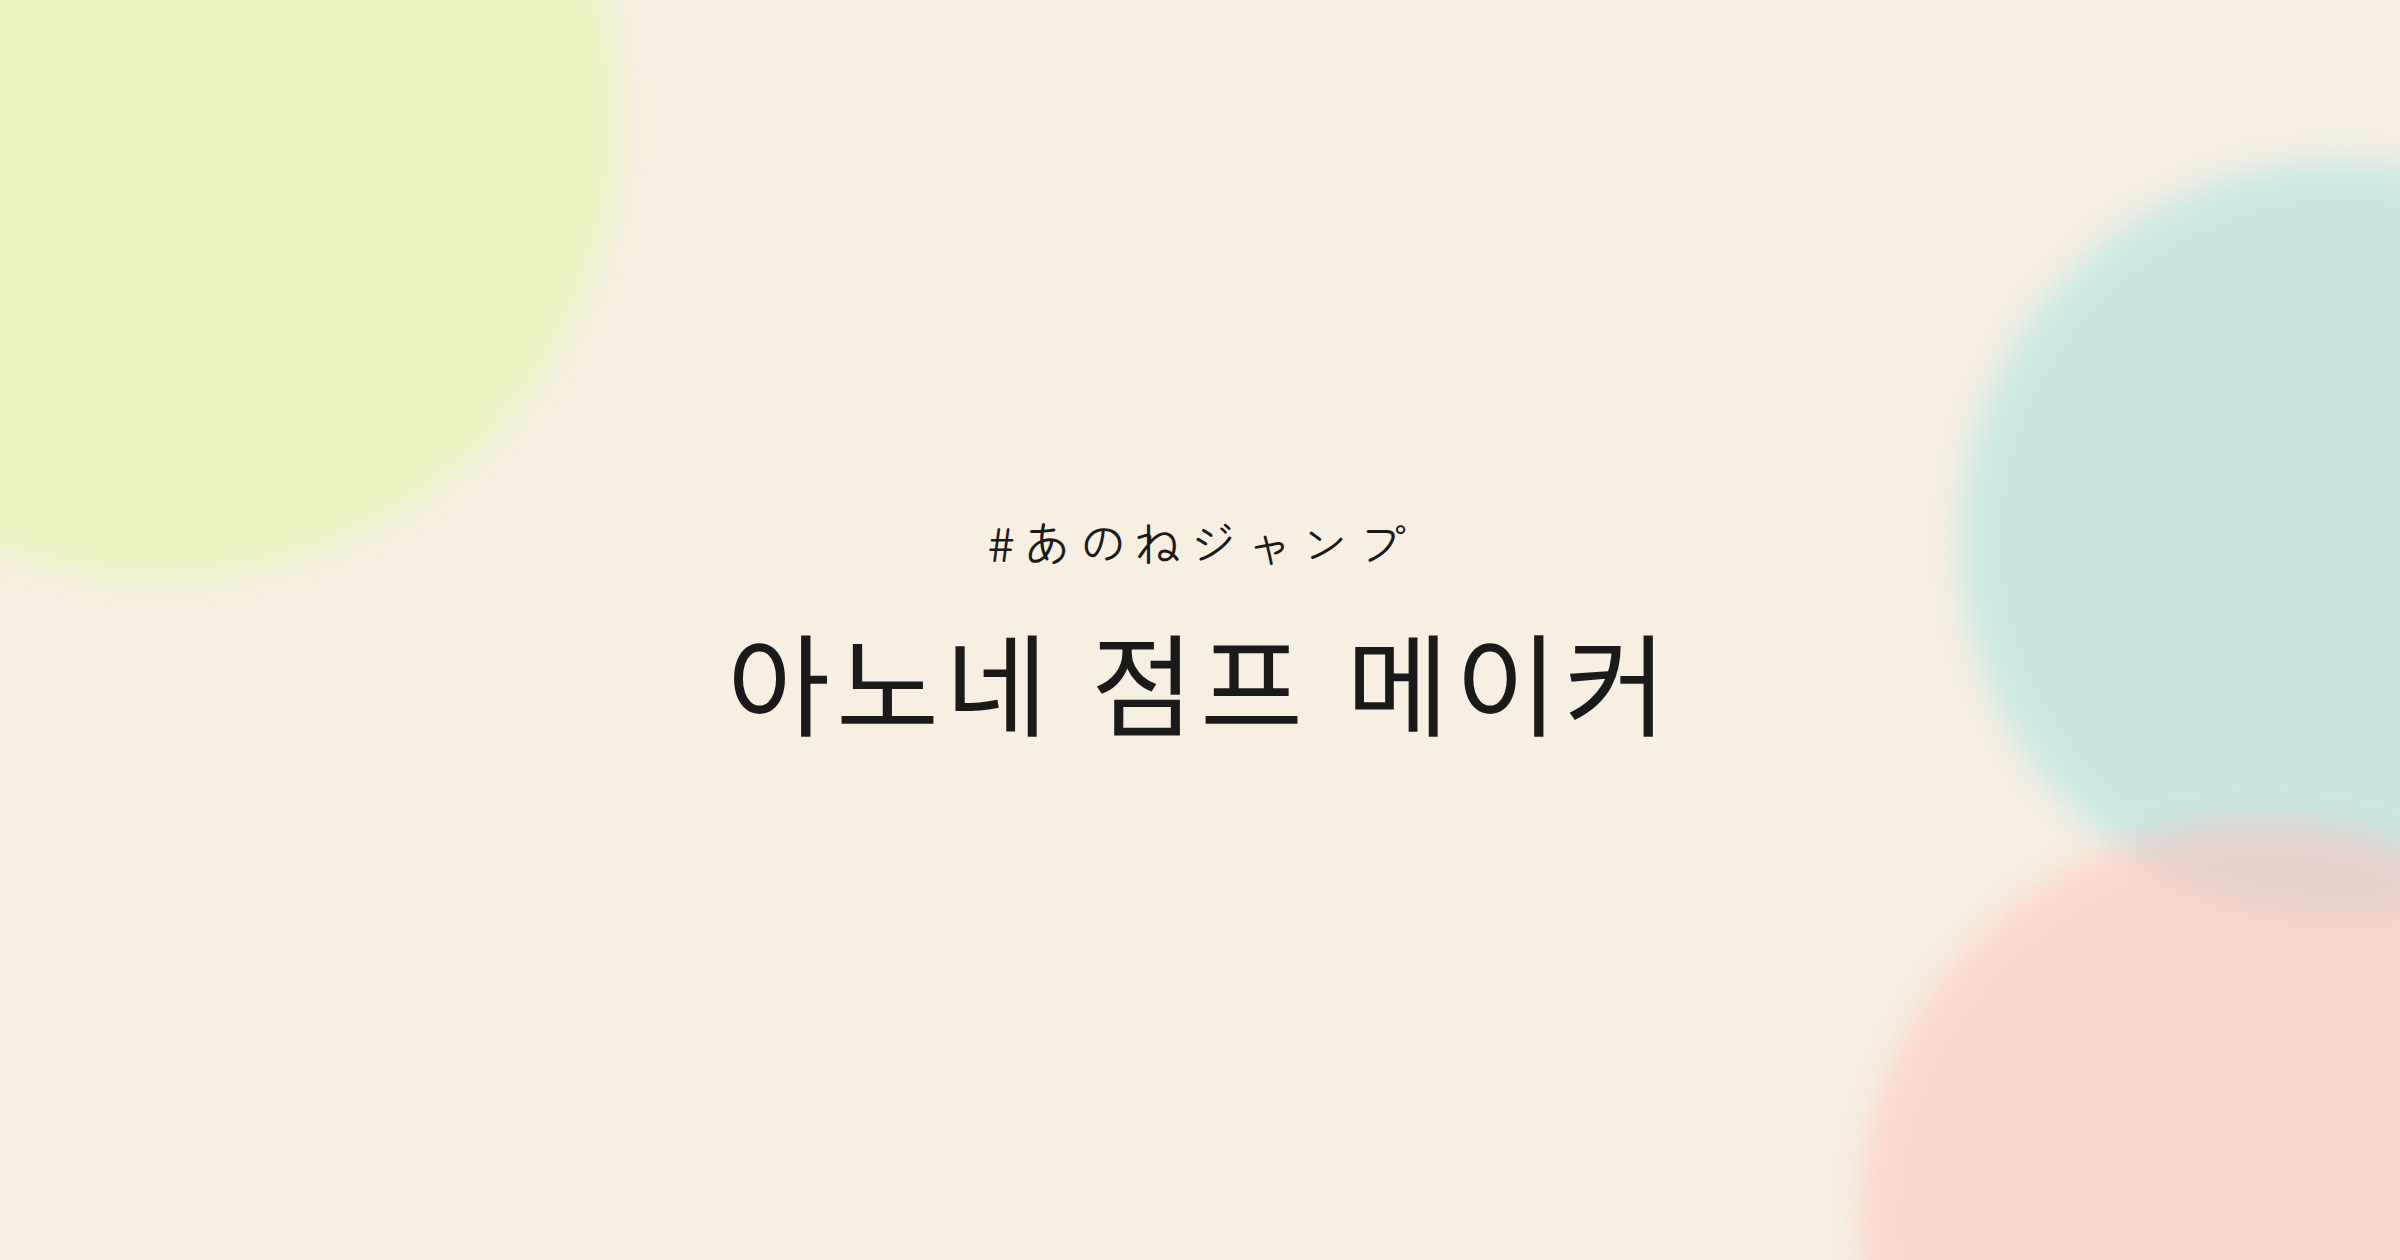
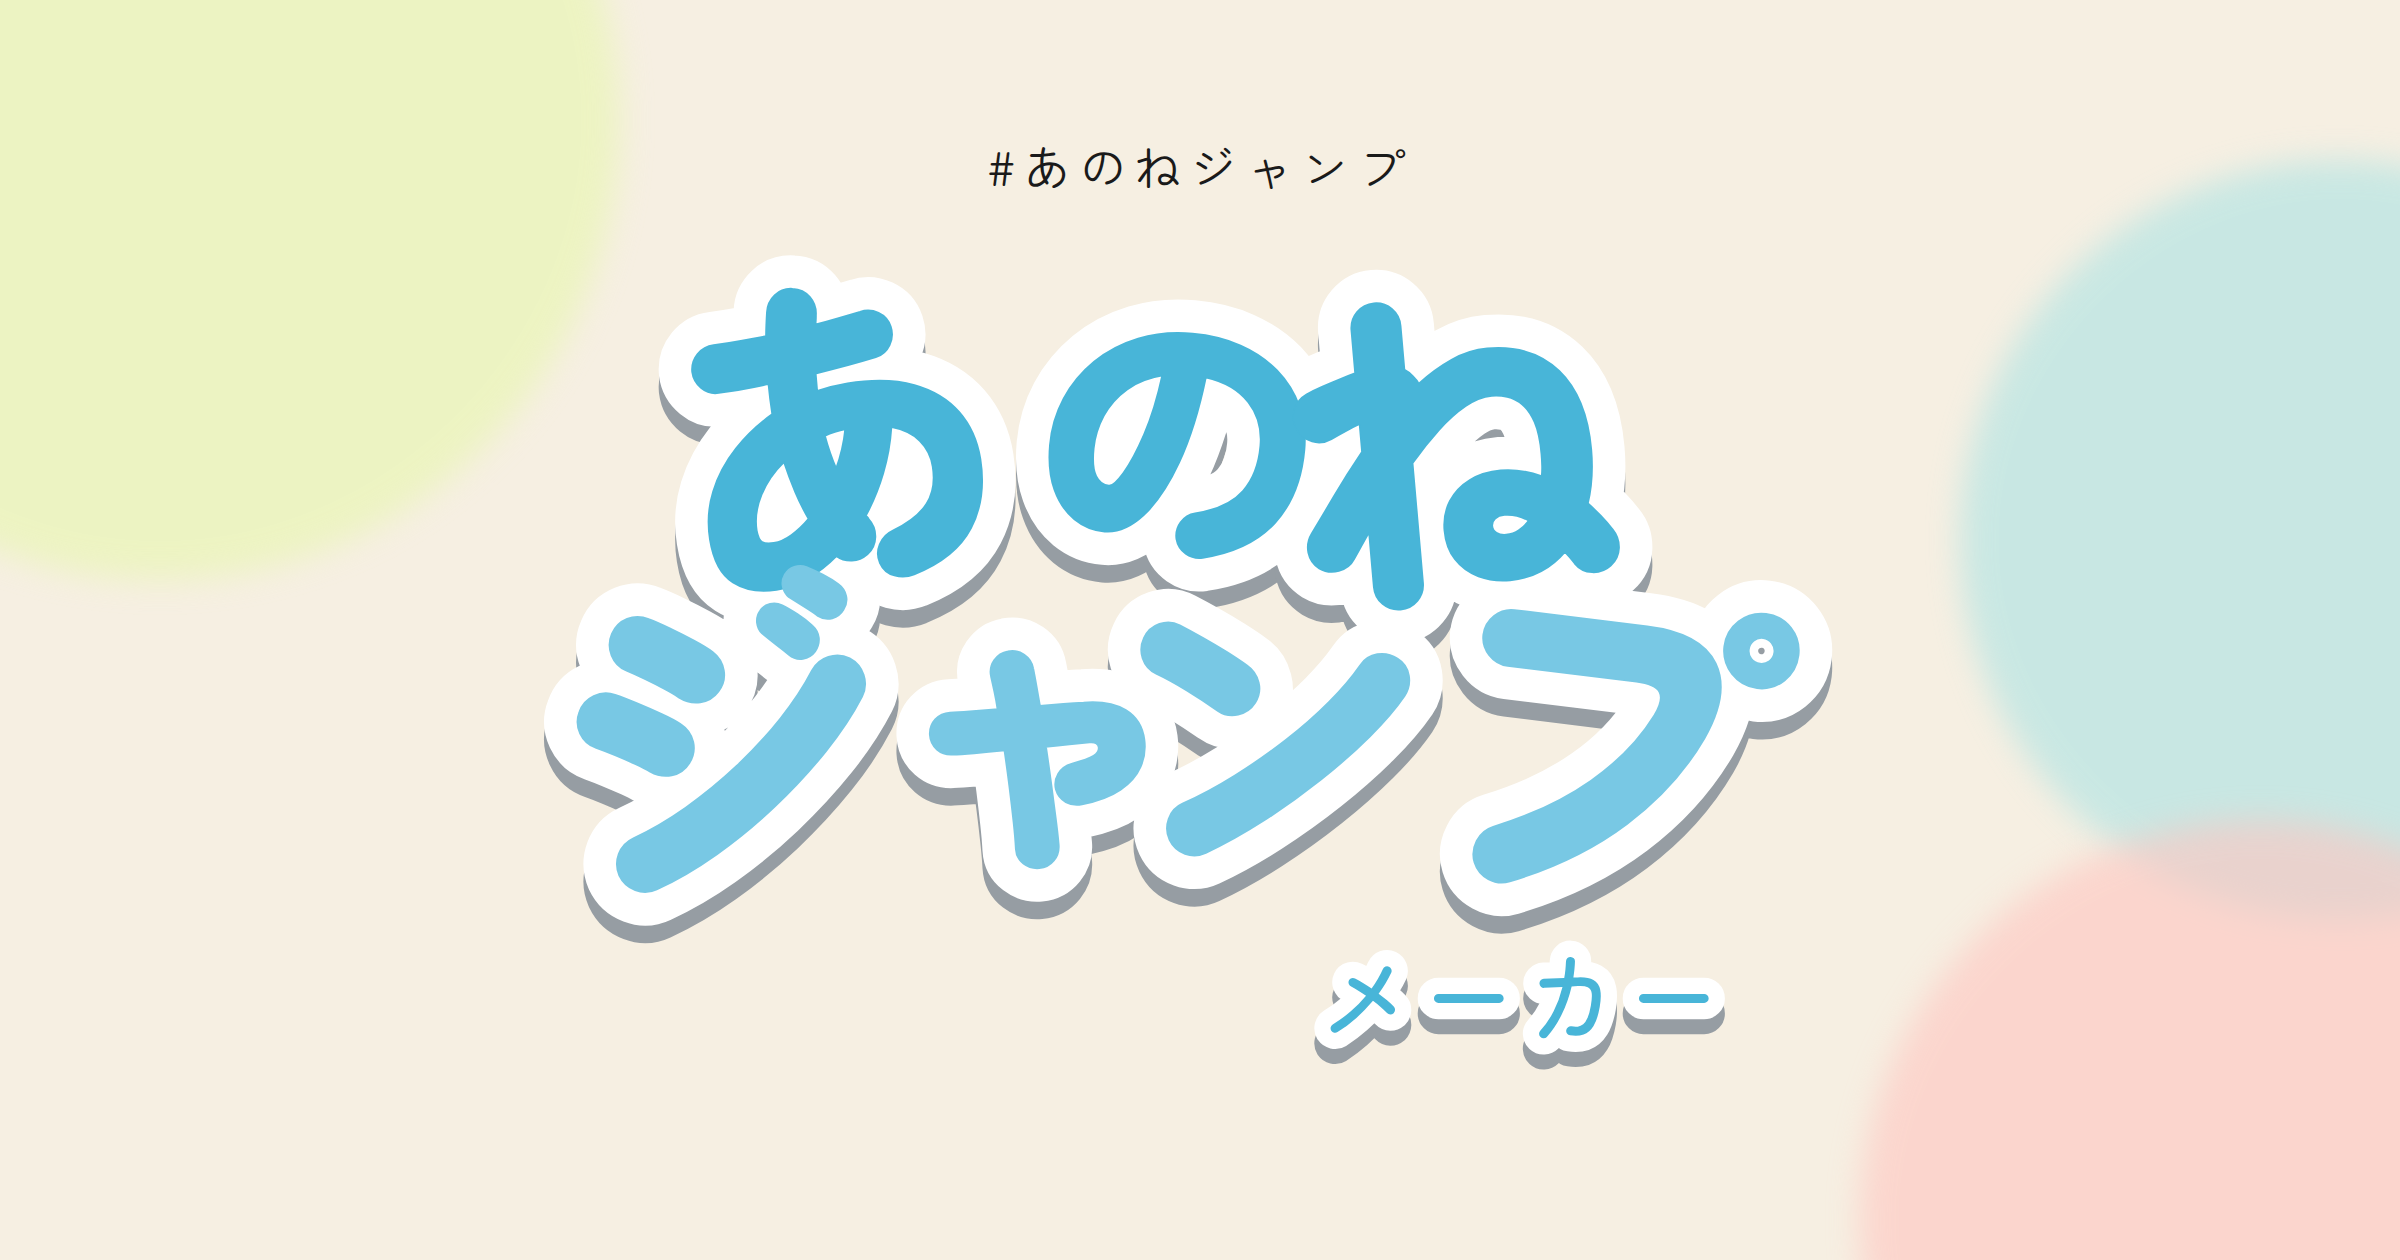
OGP画像のタイトルを縦積みロゴにする
メーカーヒーローと同じ stacked SVG を主役にし、言語ごとの og*.png を再生成する。

Changed region(s): [[0.2188, 0.1857, 0.7812, 0.8667], [0.4062, 0.1238, 0.5312, 0.1548]]

diff --git a/src/hero-logo.test.ts b/src/hero-logo.test.ts
@@ -6,6 +6,8 @@ import { MAKER_LOGO_STACKED_SIZE, MAKER_LOGO_STACKED_SRC } from "./brand.ts";
 
 const logoSrc = readFileSync(new URL("../public/brand/anone-logo-stacked.svg", import.meta.url), "utf8");
 const stylesSrc = readFileSync(new URL("./styles.css", import.meta.url), "utf8");
+const ogHtml = readFileSync(new URL("../scripts/og.html", import.meta.url), "utf8");
+const renderOg = readFileSync(new URL("../scripts/render-og.mjs", import.meta.url), "utf8");
 
 describe("stacked maker hero logo", () => {
   it("ships the stacked wordmark only (640×365)", () => {
@@ -49,5 +51,23 @@ describe("stacked maker hero logo", () => {
     expect(stylesSrc).toMatch(/\.hero-logo\s*\{[^}]*height:\s*auto/);
     expect(stylesSrc).toMatch(/\.hero-logo\s*\{[^}]*aspect-ratio:\s*640\s*\/\s*365/);
     expect(stylesSrc).toMatch(/\.hero-logo\s*\{[^}]*width:\s*min\(100%,\s*22rem\)/);
+  });
+});
+
+describe("stacked OGP wordmark", () => {
+  it("uses the production stacked SVG as the OGP title, not a text heading", () => {
+    expect(ogHtml).toContain(`src="${MAKER_LOGO_STACKED_SRC}"`);
+    expect(ogHtml).toContain('class="hero-logo"');
+    expect(ogHtml).toContain(`width="${MAKER_LOGO_STACKED_SIZE.width}"`);
+    expect(ogHtml).toContain(`height="${MAKER_LOGO_STACKED_SIZE.height}"`);
+    expect(ogHtml).toMatch(/\.hero-logo\s*\{[^}]*aspect-ratio:\s*640\s*\/\s*365/);
+    expect(ogHtml).not.toMatch(/<h1 id="ogTitle">[^<]*<\/h1>/);
+    expect(ogHtml).not.toContain("document.getElementById(\"ogTitle\").textContent");
+    expect(renderOg).toContain('pathname === "/brand/anone-logo-stacked.svg"');
+    expect(renderOg).toContain("public");
+    expect(renderOg).toContain("anone-logo-stacked.svg");
+    for (const locale of LOCALES) {
+      expect(ogHtml).toContain(t(locale, "makerTitle"));
+    }
   });
 });

diff --git a/scripts/og.html b/scripts/og.html
@@ -92,20 +92,21 @@
       .eyebrow {
         font-size: 24px;
         letter-spacing: 0.16em;
-        margin-bottom: 16px;
+        margin-bottom: 8px;
       }
 
       h1 {
-        font-size: 64px;
-        font-weight: 400;
-        letter-spacing: 0.045em;
-        line-height: 1.3;
+        display: flex;
+        justify-content: center;
         max-width: 1040px;
       }
 
-      html[lang="ko"] h1,
-      html[lang="zh"] h1 {
-        font-size: 56px;
+      .hero-logo {
+        display: block;
+        width: 800px;
+        max-width: 100%;
+        height: auto;
+        aspect-ratio: 640 / 365;
       }
     </style>
   </head>
@@ -117,7 +118,15 @@
     </div>
     <div class="hero">
       <p class="eyebrow">#あのねジャンプ</p>
-      <h1 id="ogTitle">あのねジャンプメーカー</h1>
+      <h1 id="ogTitle">
+        <img
+          class="hero-logo"
+          src="/brand/anone-logo-stacked.svg"
+          width="640"
+          height="365"
+          alt="あのねジャンプメーカー"
+        />
+      </h1>
     </div>
     <script>
       const titles = {
@@ -130,7 +139,8 @@
       const title = locale && titles[locale] ? titles[locale] : titles.ja;
       const lang = locale && titles[locale] ? locale : "ja";
       document.documentElement.lang = lang;
-      document.getElementById("ogTitle").textContent = title;
+      const logo = document.querySelector(".hero-logo");
+      if (logo instanceof HTMLImageElement) logo.alt = title;
     </script>
   </body>
 </html>
